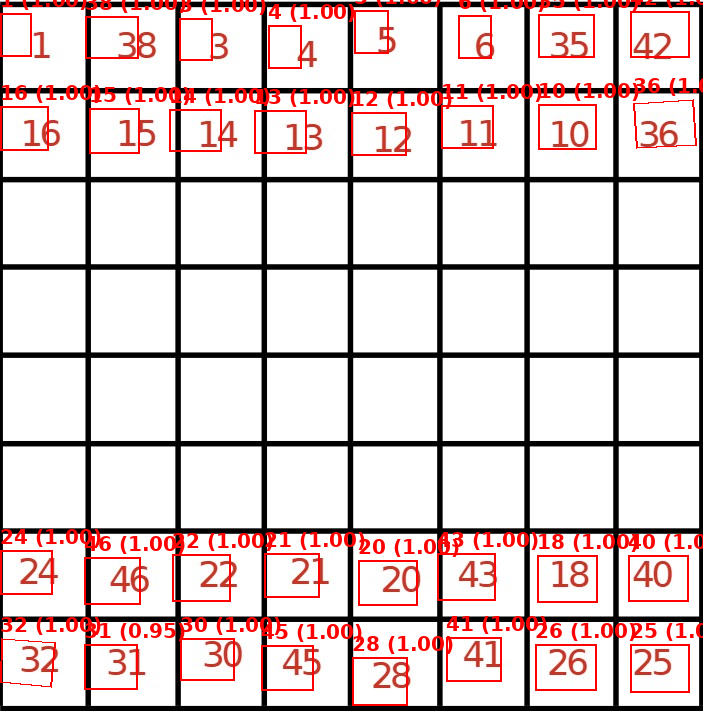
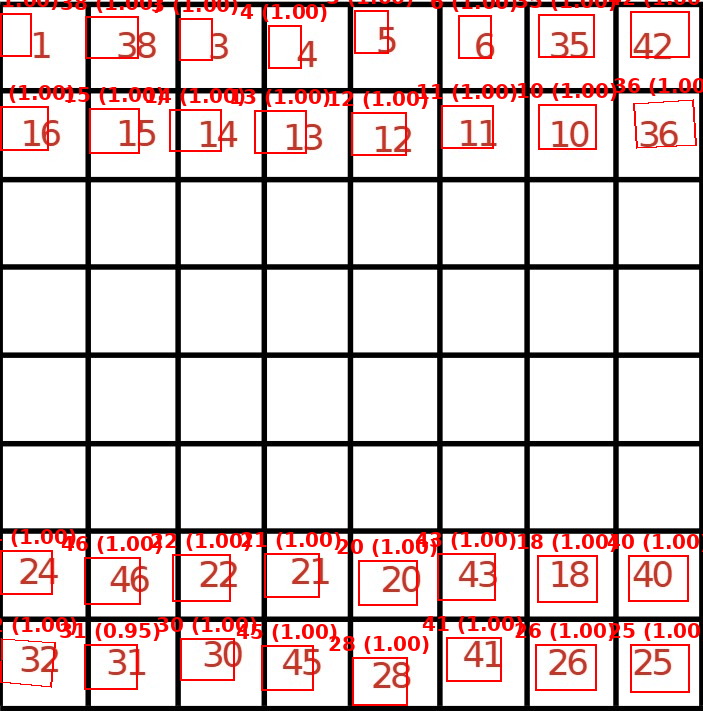
paddle marche

diff --git a/detection_remastered/detection_remastered_paddleocr.py b/detection_remastered/detection_remastered_paddleocr.py
@@ -10,9 +10,9 @@ ocr = PaddleOCR(
 )
 
 # Lecture de l'image
-result = ocr.predict(f"/home/loan/Documents/Junia/AP5/projet_chess/chess-project/detection_remastered/image_sale.png")
+result = ocr.predict(f"/home/loan/Documents/Junia/AP5/projet_chess/chess-project/detection_remastered/image_propre.jpg")
 
-img = Image.open('/home/loan/Documents/Junia/AP5/projet_chess/chess-project/detection_remastered/image_sale.png')
+img = Image.open('/home/loan/Documents/Junia/AP5/projet_chess/chess-project/detection_remastered/image_propre.jpg')
 draw = ImageDraw.Draw(img)
 
 # Charger la font
@@ -50,16 +50,23 @@ if result and len(result) > 0:
             points = [(int(p[0]), int(p[1])) for p in bbox]
             draw.polygon(points, outline='red', width=2)
             
-            # Position en haut à gauche
-            min_x = min(p[0] for p in bbox)
-            min_y = min(p[1] for p in bbox)
+            # Calculer le centre du polygone pour placer le label
+            center_x = sum(p[0] for p in bbox) / len(bbox)
+            center_y = sum(p[1] for p in bbox) / len(bbox)
             
-            # Afficher le texte détecté
+            # Trouver le point le plus haut du polygone pour placer le label au-dessus
+            top_y = min(p[1] for p in bbox)
+            
+            # Afficher le texte détecté au centre horizontal, au-dessus du texte
             label = f"{texte} ({confiance:.2f})"
-            draw.text((int(min_x), int(min_y) - 25), label, fill='red', font=font)
+            # Obtenir la taille du texte pour le centrer
+            bbox_text = draw.textbbox((0, 0), label, font=font)
+            text_width = bbox_text[2] - bbox_text[0]
+            
+            draw.text((int(center_x - text_width/2), int(top_y) - 25), label, fill='red', font=font)
 
 # Sauvegarder l'image annotée
-img.save('/home/loan/Documents/Junia/AP5/projet_chess/chess-project/detection_remastered/image_sale_detecte_paddle.png')
+img.save('/home/loan/Documents/Junia/AP5/projet_chess/chess-project/detection_remastered/image_propre_detecte_paddle.png')
 
 print("Nombres détectés:")
 for item in nombres_avec_pos:
